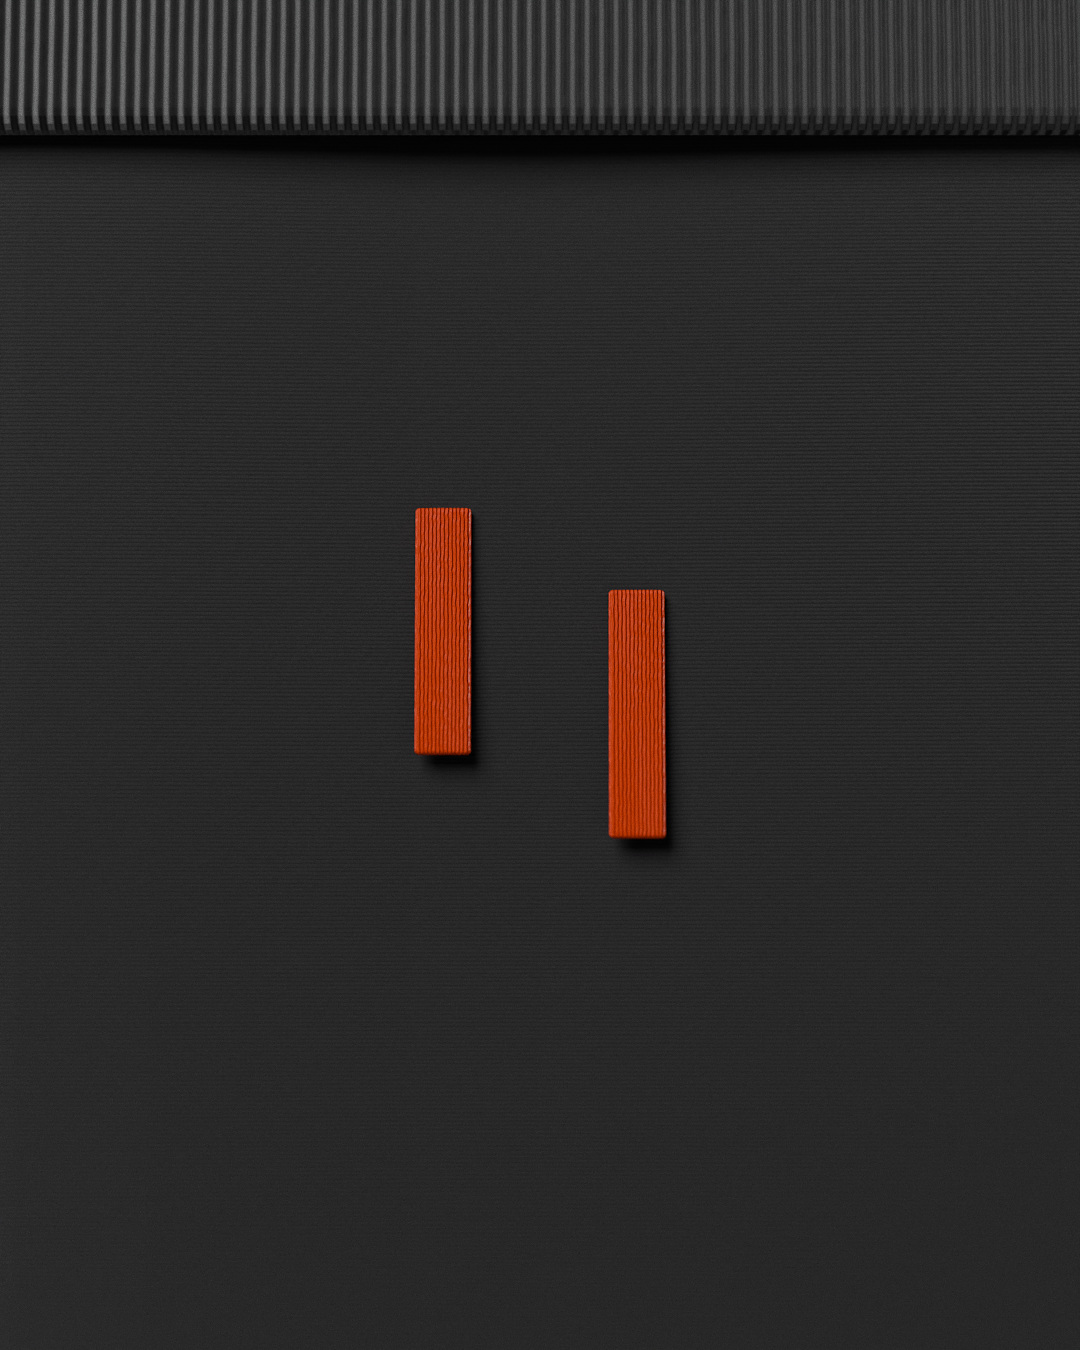
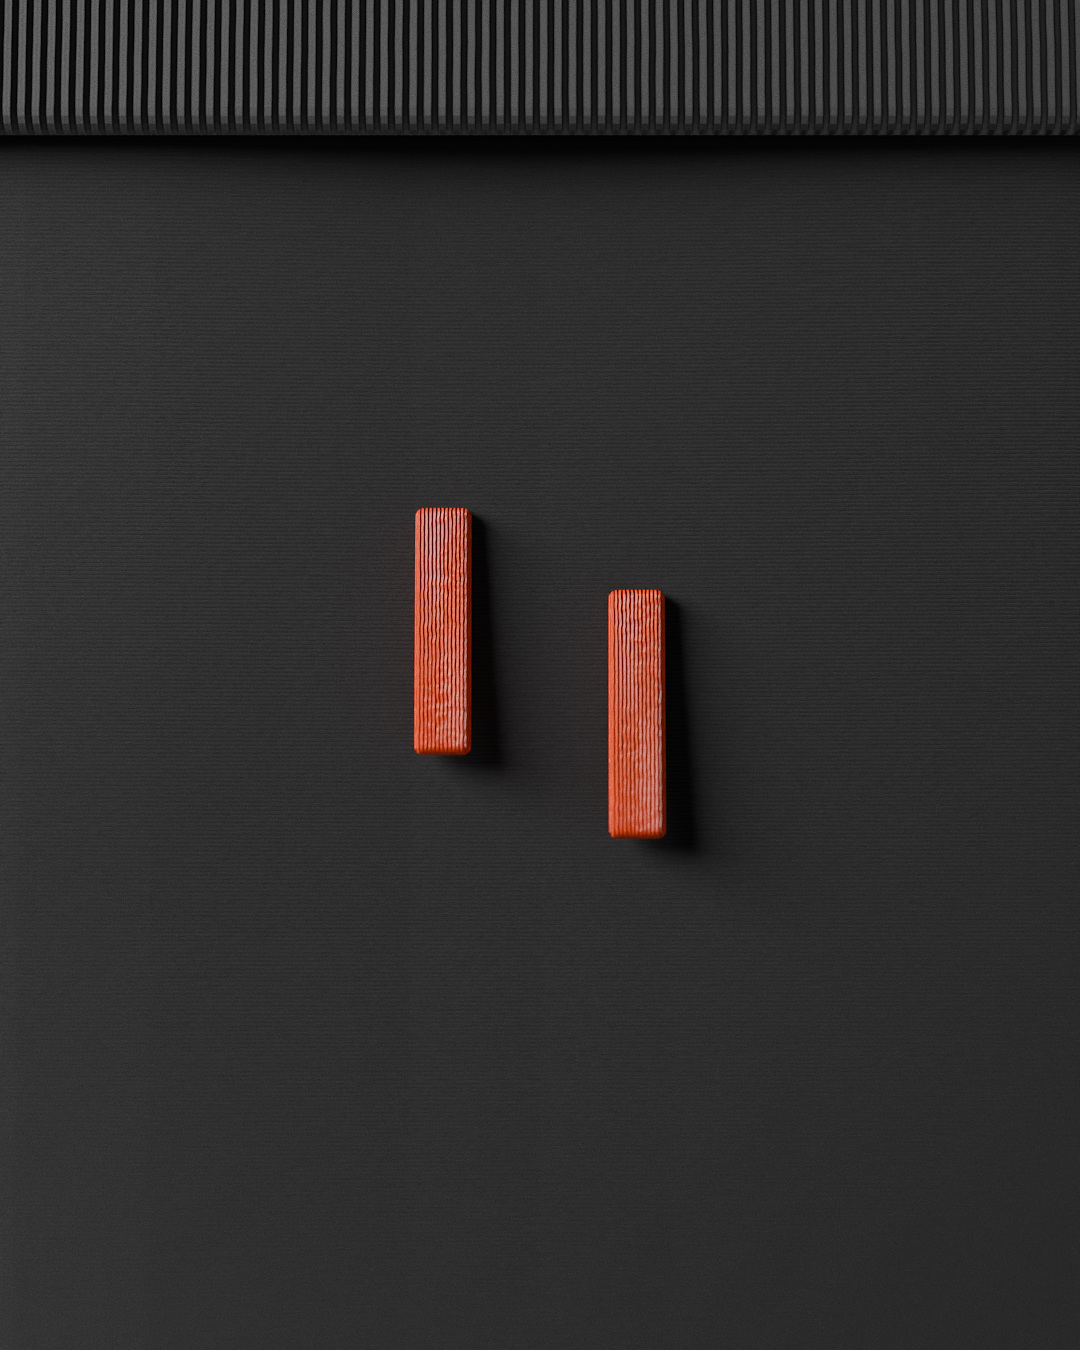
Merch v1.1: satin-stitch embroidery with domed thread; handoff rule: never wait on the other agent
Claude-Session: https://claude.ai/code/session_019pcNfRHGxsRYW5k4Gc3WRr

Changed region(s): [[0.0, 0.0, 1.0, 0.0933], [0.3667, 0.3733, 0.4889, 0.5911], [0.55, 0.4356, 0.6722, 0.6533]]

diff --git a/brand/code/merch/embroidery.py b/brand/code/merch/embroidery.py
@@ -40,9 +40,9 @@ fab.data.materials.append(m)
 # --- embroidery: two offset bars (the 11 mark), satin stitch along the long axis
 def bar(x, y, w, h, name):
     bpy.ops.mesh.primitive_cube_add(size=1); o = bpy.context.object; o.name = name
-    o.scale = (w / 2, h / 2, 0.0007); o.location = (x, y, 0.0016 + 0.012 * 0)
+    o.scale = (w / 2, h / 2, 0.0013); o.location = (x, y, 0.0016 + 0.012 * 0)
     bpy.ops.object.transform_apply(scale=True)
-    bv = o.modifiers.new('bev', 'BEVEL'); bv.width = 0.0011; bv.segments = 5
+    bv = o.modifiers.new('bev', 'BEVEL'); bv.width = 0.0024; bv.segments = 6
     sb = o.modifiers.new('sub', 'SUBSURF'); sb.levels = 2; sb.render_levels = 3
     return o
 u = 0.0082  # logo ratios: bar 41, gap 29, height 181, offset 30
@@ -71,8 +71,8 @@ rbu = rn.nodes.new('ShaderNodeBump'); rbu.inputs['Strength'].default_value = 1.0
 rtc = rn.nodes.new('ShaderNodeTexCoord'); rn.links.new(rtc.outputs['Object'], rw.inputs['Vector']); rn.links.new(rw.outputs['Fac'], rbu.inputs['Height']); rn.links.new(rbu.outputs['Normal'], rb.inputs['Normal'])
 col.data.materials.append(rm)
 # --- light: big soft window key from upper left, faint fill
-bpy.ops.object.light_add(type='AREA', location=(-0.35, 0.45, 0.55)); k = bpy.context.object; k.data.energy = 4.5; k.data.size = 0.5
-k.rotation_euler = (math.radians(-38), math.radians(-28), 0)
+bpy.ops.object.light_add(type='AREA', location=(-0.55, 0.25, 0.22)); k = bpy.context.object; k.data.energy = 6.0; k.data.size = 0.35
+k.rotation_euler = (math.radians(-40), math.radians(-62), 0)
 bpy.ops.object.light_add(type='AREA', location=(0.4, -0.3, 0.4)); f = bpy.context.object; f.data.energy = 0.6; f.data.size = 0.8
 f.rotation_euler = (math.radians(35), math.radians(30), 0)
 w0 = bpy.data.worlds.new('w'); sc.world = w0; w0.use_nodes = True; w0.node_tree.nodes['Background'].inputs['Strength'].default_value = 0.02

diff --git a/agents/HANDOFF.md b/agents/HANDOFF.md
@@ -2,6 +2,9 @@
 
 Both agents read this file at the start of work (see AGENTS.md) and update it at the end. Zayn owns all decisions; neither agent publishes, posts, spends money or contacts anyone without his approval. Work on branches, open pull requests, never push to main.
 
+## Rule from Zayn
+Never wait on the other agent. If a task is not picked up or ChatGPT is unavailable, Claude does it directly and notes it here.
+
 ## How to use
 - Add a task under **Open** with: who it is for, what "done" means, and the files involved.
 - When you pick it up, move it to **In progress** with your name and branch.
